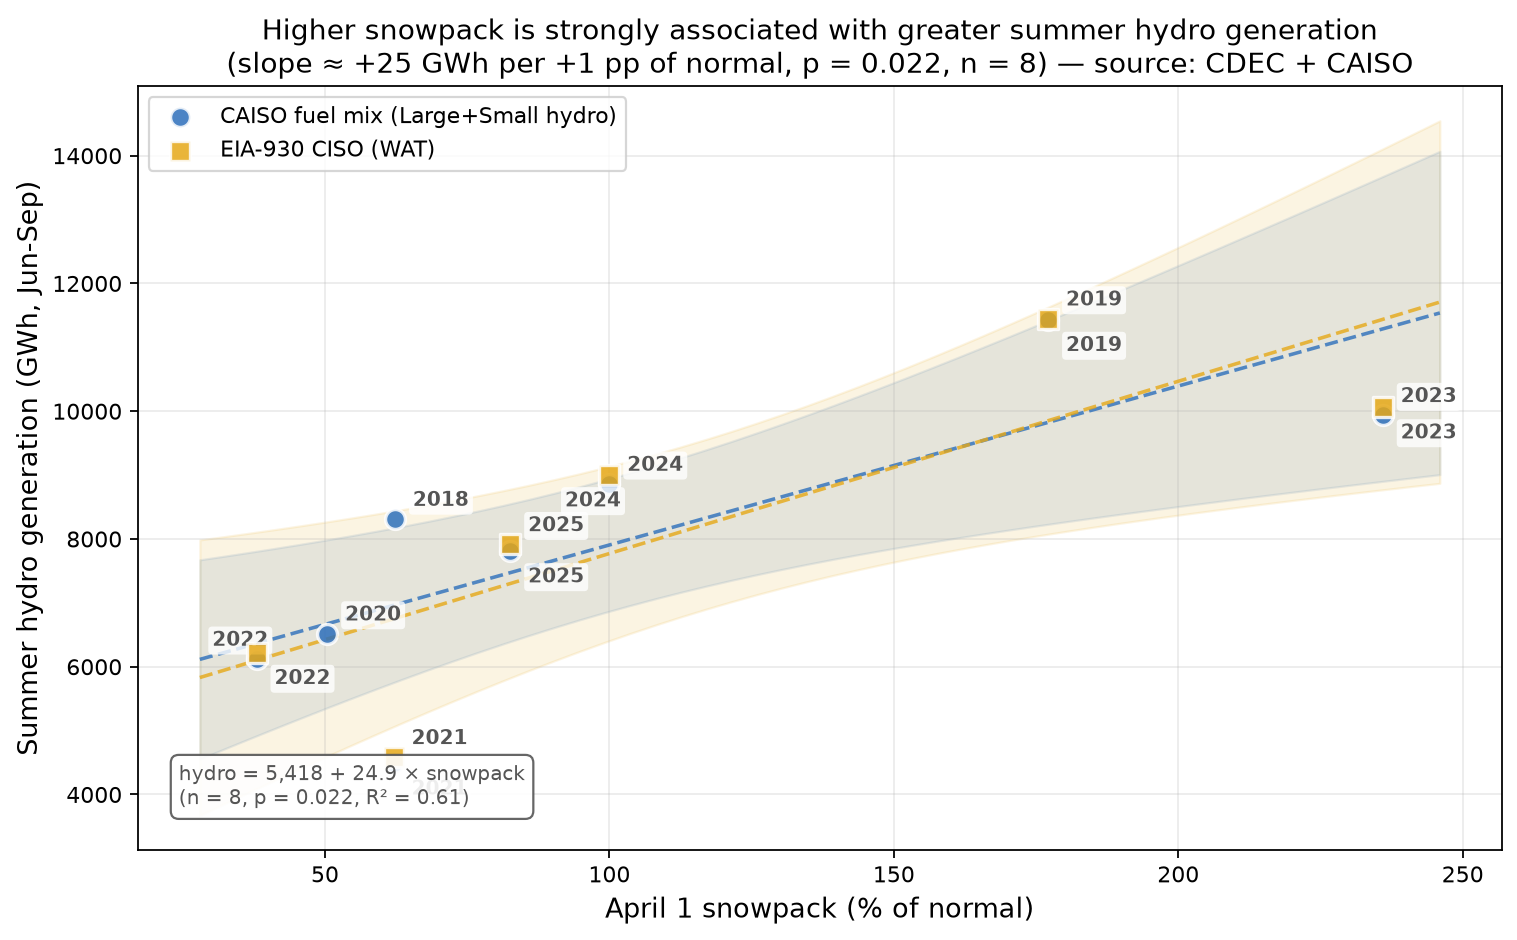
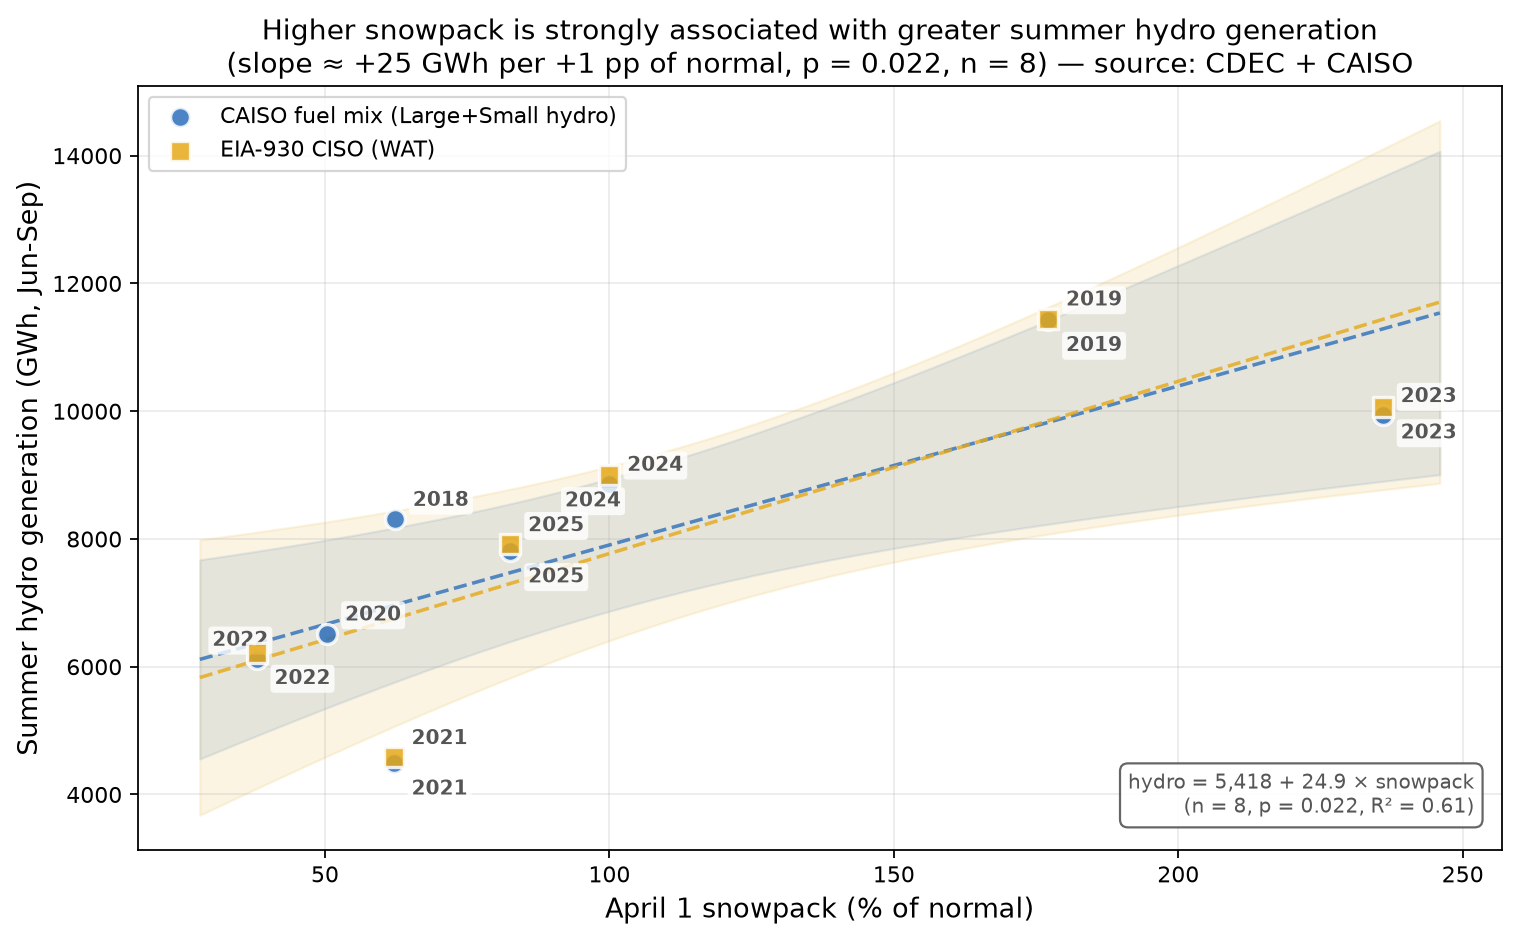
Fix 2021 label collision with equation box in hydro scatter

Changed region(s): [[0.7436, 0.8021, 0.9914, 0.8947], [0.0929, 0.8021, 0.3718, 0.8947]]

diff --git a/scripts/make_figures.py b/scripts/make_figures.py
@@ -210,9 +210,9 @@ def hydro_vs_snowpack(p: pd.DataFrame):
     sub = p[["hydro_gwh", "snowpack_pct"]].dropna()
     b = np.linalg.lstsq(np.column_stack([np.ones(len(sub)), sub["snowpack_pct"]]),
                         sub["hydro_gwh"].values, rcond=None)[0]
-    ax.text(0.03, 0.06, f"hydro = {b[0]:,.0f} + {b[1]:.1f} \u00d7 snowpack\n"
+    ax.text(0.98, 0.04, f"hydro = {b[0]:,.0f} + {b[1]:.1f} \u00d7 snowpack\n"
             f"(n = {len(sub)}, p = 0.022, R\u00b2 = 0.61)",
-            transform=ax.transAxes, fontsize=9, color=GRAY,
+            transform=ax.transAxes, fontsize=9, color=GRAY, ha="right", va="bottom",
             bbox=dict(boxstyle="round,pad=0.4", facecolor="white", alpha=0.9, edgecolor=GRAY))
 
     ax.set_xlabel("April 1 snowpack (% of normal)", fontsize=12)
